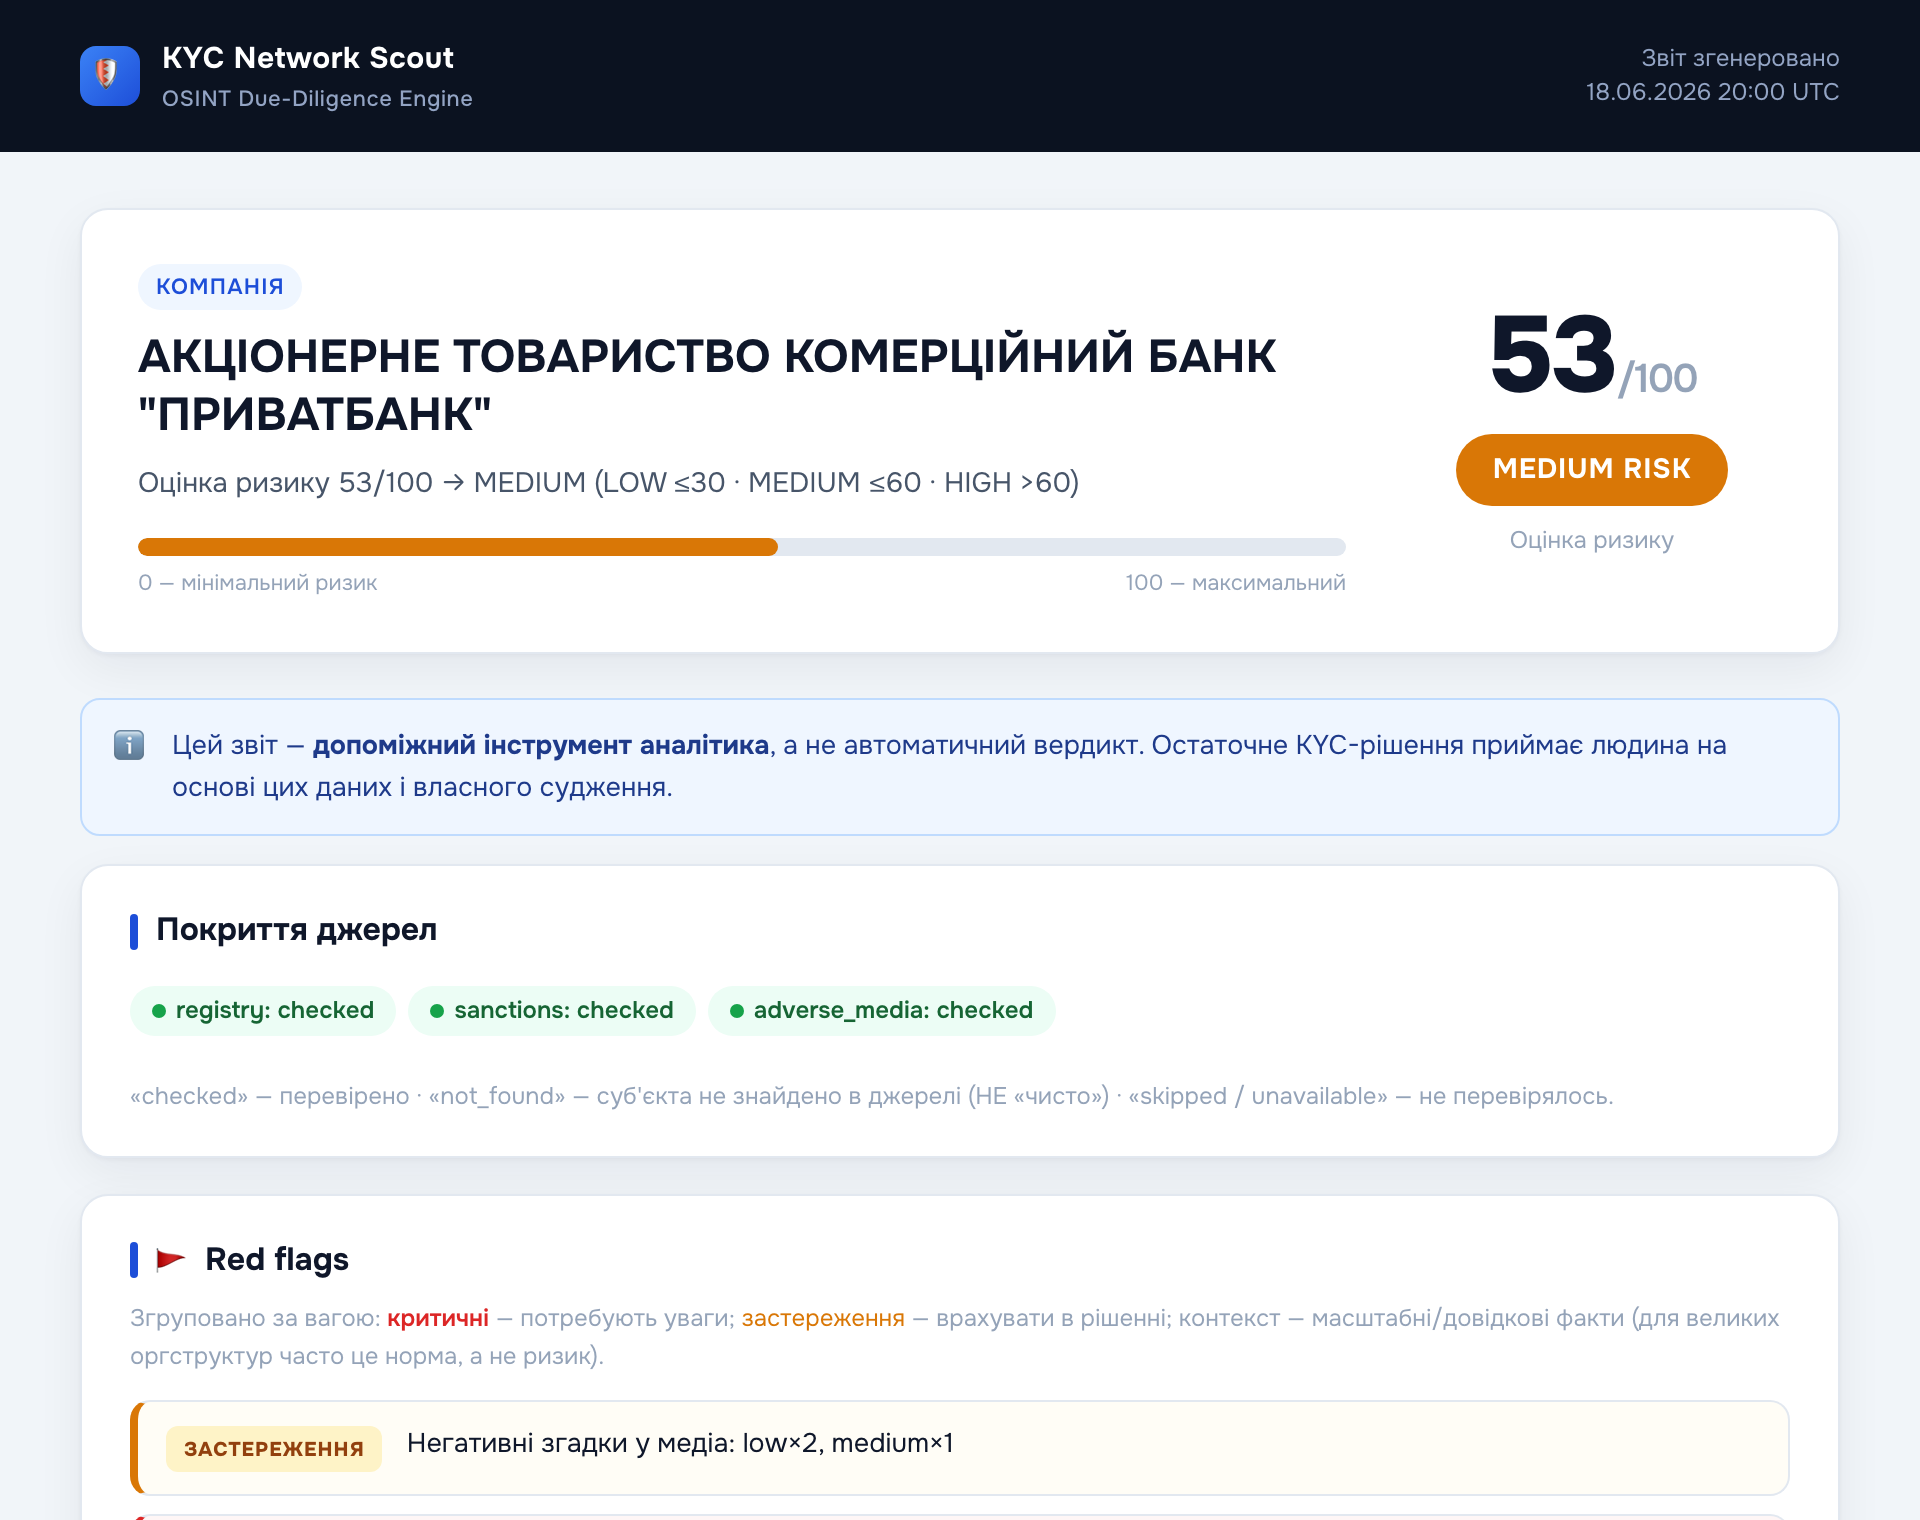
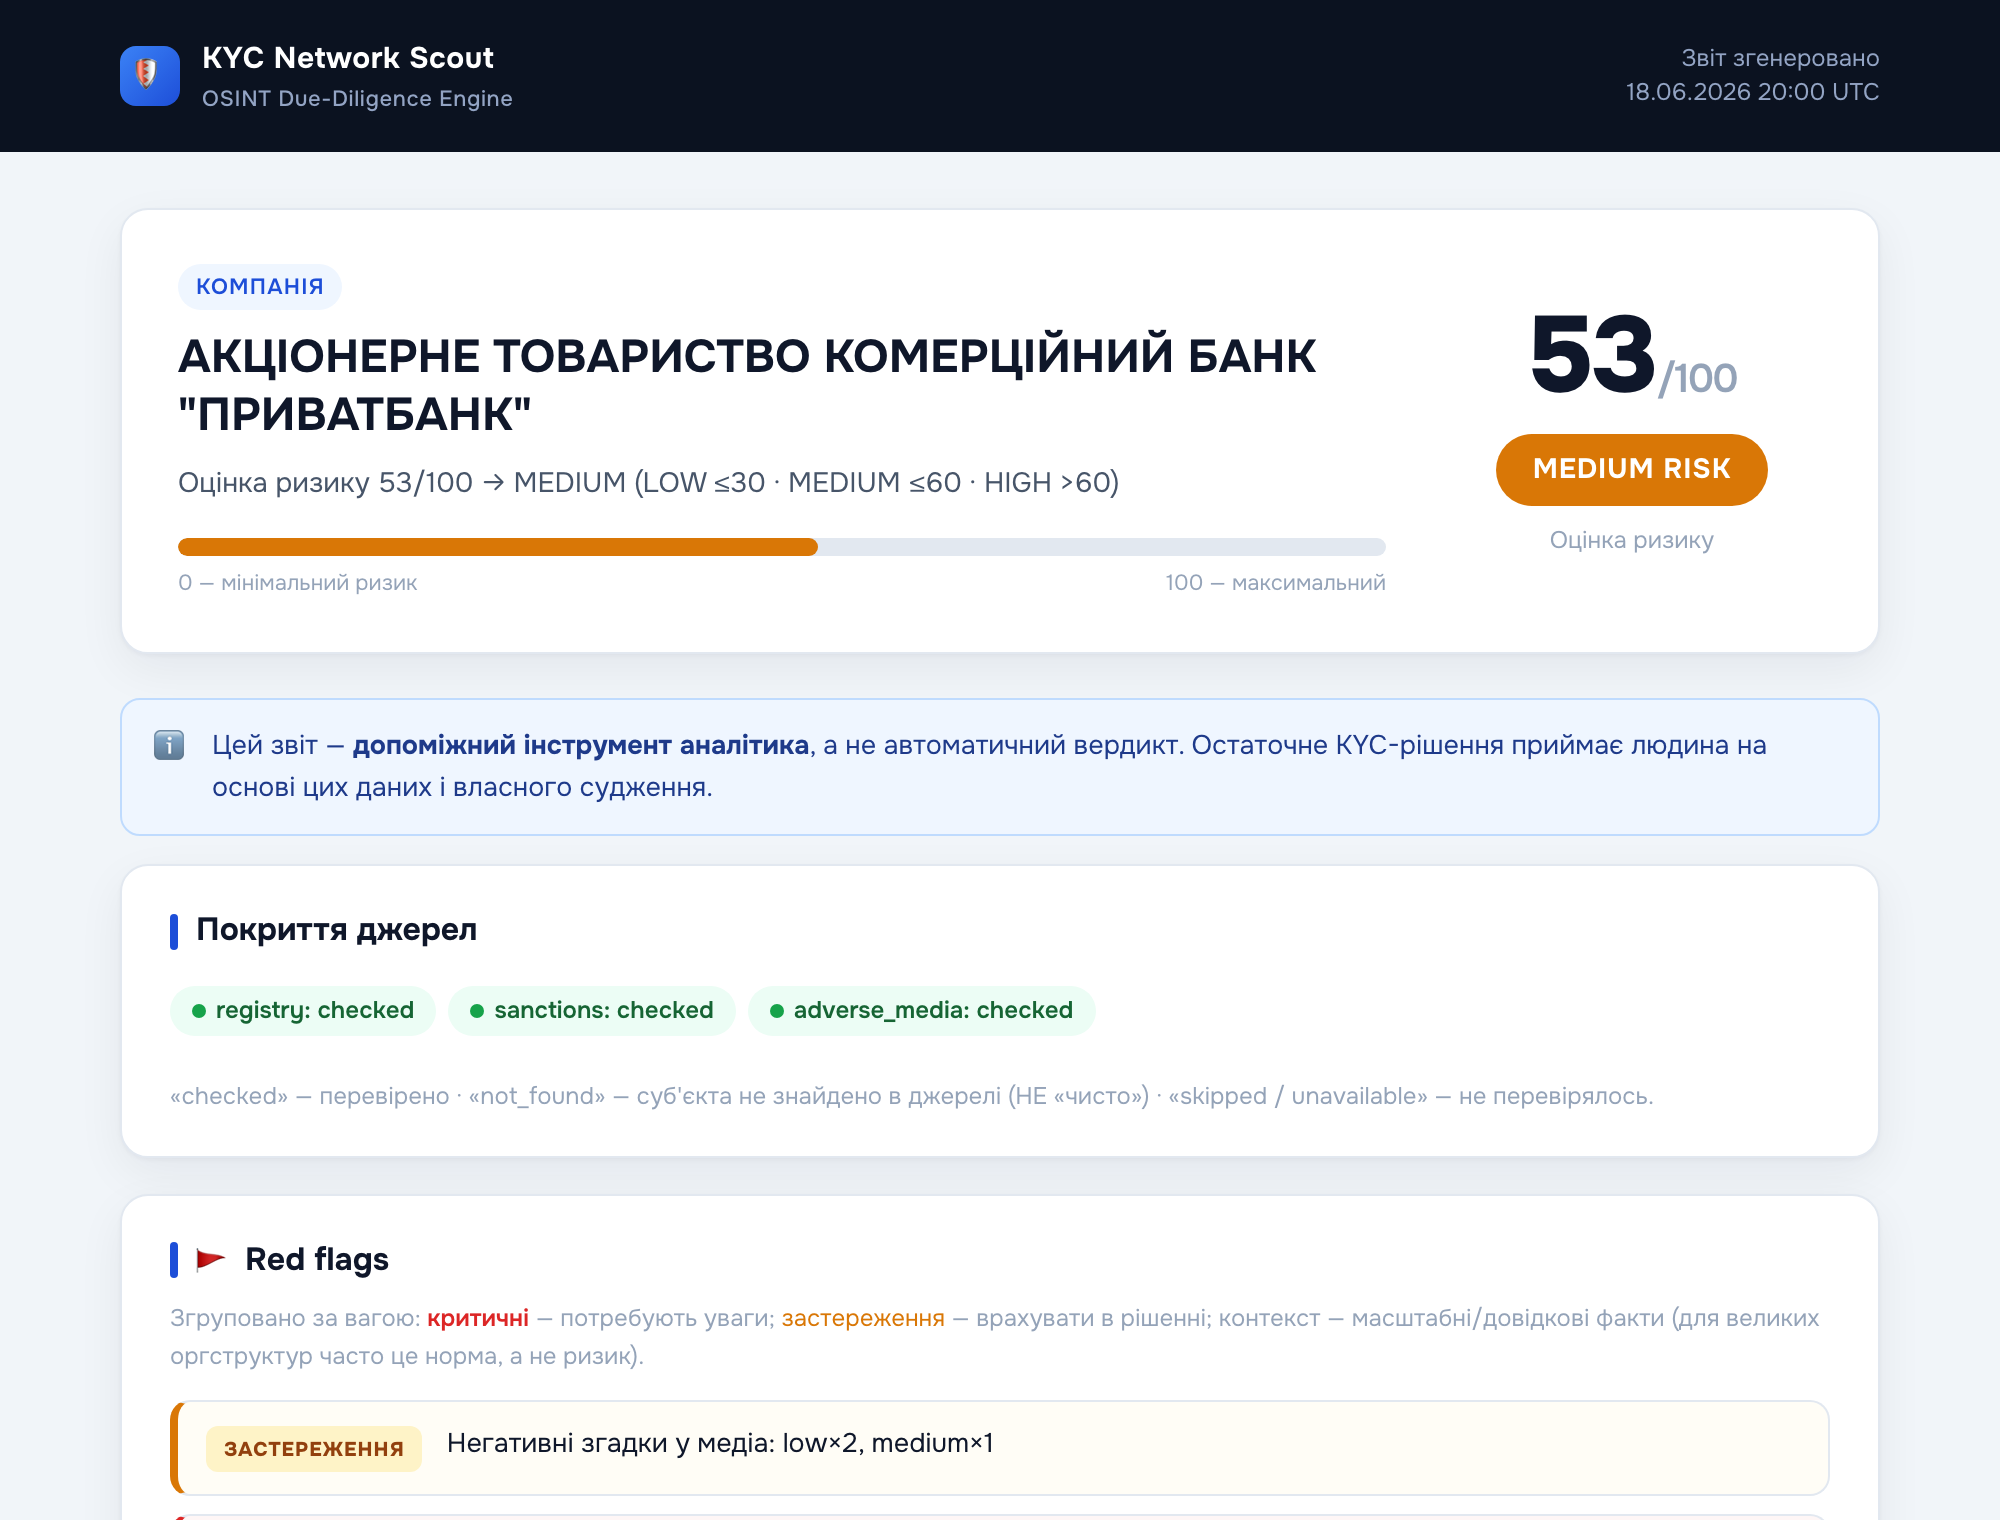
fix: критичні — identity-фільтр негативних медіа + SSRF-захист
#1 Вердикт: скоринг і HTML рахували негативні згадки лише за is_adverse,
ігноруючи is_about_target_person → стаття про ОДНОФАМІЛЬЦЯ знижувала бал і
потрапляла у звіт (критичний false-positive для поширених ПІБ і великих
компаній; CLI-гілка фільтрувала правильно, а звіт — ні).
- scoring.py: штрафуємо лише is_adverse AND is_about_target_person, і лише
  match_confidence high/medium (low — показ, але без штрафу)
- aggregator.py: той самий фільтр у звітному JSON і шаблоні; low-confidence
  рядки позначаються «не враховано в оцінці»; точніший фолбек-текст

#2 Безпека: scraper.scrape() пускав будь-який URL із пошукової видачі в
headless-браузер без SSRF-захисту → у Docker-мережі досяжні redis тощо,
метадані хмари (169.254.169.254), loopback, file://.
- scraper.py: _is_public_http_url() — лише http(s) на публічні IP; резолв
  хоста й перевірка всіх адрес (loopback/private/link-local/reserved/multicast)

ПриватБанк-звіт не змінився (усі його згадки — true-positive high-confidence).

diff --git a/examples/example_report.html b/examples/example_report.html
@@ -322,29 +322,34 @@
   
 
   
+  
   <div class="card">
   <h2>Негативні медіа-згадки <span class="cat" style="margin-left:auto">3</span></h2>
   
   <table><thead><tr><th style="width:90px">Severity</th><th>Категорія</th><th>Резюме</th><th>Джерело</th></tr></thead><tbody>
   
+    
     <tr><td><span class="badge sev-low">low</span></td>
         <td><span class="cat">litigation</span></td>
         <td>Дарницький районний суд м. Києва задовольнив позов споживача проти АТ КБ «ПриватБанк» щодо стягнення безпідставно списаних коштів у сумі 5000 грн та відновлення залишку на рахунку на суму 113 309 грн 64 коп. після несанкціонованих операцій. Суд зобов'язав банк також сплатити судовий збір у розмірі 2422 грн 40 коп. на користь держави.</td>
         <td><a href="https://reyestr.court.gov.ua/Review/133280226" target="_blank" rel="noopener">Єдиний державний реєстр судових рішень ↗</a></td></tr>
   
+    
     <tr><td><span class="badge sev-medium">medium</span></td>
         <td><span class="cat">other</span></td>
         <td>Стаття містить численні негативні відгуки клієнтів про ПриватБанк, зокрема скарги на безпідставне блокування рахунків, неналежне обслуговування та вимоги фінансового моніторингу без правового обґрунтування. Також зазначено, що банк у 2016 році перейшов у державну власність через невиконання програми докапіталізації та від'ємне значення капіталу.</td>
         <td><a href="https://finance.ua/ua/banks/privatbank" target="_blank" rel="noopener">ПриватБанк - сайт, телефон, реквізити, МФО, ЄДРПОУ, контактна інформація ↗</a></td></tr>
   
+    
     <tr><td><span class="badge sev-low">low</span></td>
         <td><span class="cat">litigation</span></td>
         <td>Господарський суд Київської області повернув позовну заяву без розгляду через процесуальні порушення з боку ПАТ КБ 'ПРИВАТБАНК', який діяв як представник ПАТ 'АКЦЕНТ-БАНК': позов підписаний неуповноваженою особою та не надано належних доказів сплати судового збору.</td>
         <td><a href="https://zakononline.ua/court-decisions/show/42012854" target="_blank" rel="noopener">Ухвала суду від 22.12.2014 по справі № 911/5439/14 Господарський суд Київської області 
              | ZAKONONLINE - Право знати! ↗</a></td></tr>
   </tbody></table>
-  <p class="tiny" style="margin-top:10px">Посилання ведуть на першоджерела (нова вкладка).
-     Повні копії статей на момент перевірки збережено в evidence-архіві.</p>
+  <p class="tiny" style="margin-top:10px">Показано лише згадки, які класифікатор зіставив саме з цим
+     суб'єктом (однофамільці відсіяні). Посилання ведуть на першоджерела (нова вкладка);
+     повні копії статей збережено в evidence-архіві.</p>
   
   </div>
 

diff --git a/workers/scraper.py b/workers/scraper.py
@@ -1,9 +1,12 @@
 from __future__ import annotations
 
 import asyncio
+import ipaddress
 import os
+import socket
 from datetime import datetime, timezone
 from typing import Any
+from urllib.parse import urlparse
 
 from dotenv import load_dotenv
 
@@ -15,6 +18,43 @@ _USER_AGENT: str = os.getenv(
 )
 PAGE_TIMEOUT_MS: int = 30_000
 MAX_TEXT_CHARS: int = 50_000
+
+_ALLOWED_SCHEMES = ("http", "https")
+
+
+def _is_public_http_url(url: str) -> bool:
+    """SSRF-захист. Дозволяємо лише http(s) на ПУБЛІЧНІ IP; блокуємо
+    loopback / приватні / link-local (напр. 169.254.169.254 — метадані хмари) /
+    reserved / multicast. URL для скрейпінгу беруться з пошукової видачі —
+    тобто частково контрольовані ззовні, тож хост треба зарезолвити й
+    перевірити ВСІ його адреси, перш ніж пускати в headless-браузер.
+
+    Залишковий ризик: DNS-rebinding (crawl4ai резолвить хост повторно) — для
+    внутрішнього інструмента прийнятно; за потреби закрити пін-ом IP."""
+    try:
+        p = urlparse(url)
+    except (ValueError, AttributeError):
+        return False
+    if p.scheme not in _ALLOWED_SCHEMES:
+        return False
+    host = p.hostname
+    if not host:
+        return False
+    try:
+        infos = socket.getaddrinfo(host, p.port or 80, proto=socket.IPPROTO_TCP)
+    except (socket.gaierror, UnicodeError, ValueError, OSError):
+        return False
+    if not infos:
+        return False
+    for info in infos:
+        try:
+            addr = ipaddress.ip_address(info[4][0].split("%")[0])
+        except ValueError:
+            return False
+        if (addr.is_private or addr.is_loopback or addr.is_link_local
+                or addr.is_reserved or addr.is_multicast or addr.is_unspecified):
+            return False
+    return True
 
 
 def _extract_markdown(result: Any) -> str:
@@ -65,6 +105,11 @@ async def scrape(url: str) -> dict[str, Any]:
         "scraped_at": datetime.now(timezone.utc).isoformat(),
         "error": None,
     }
+
+    # SSRF-захист: не пускаємо в браузер непублічні / нестандартні URL.
+    if not _is_public_http_url(url):
+        base["error"] = "blocked: непублічний або недозволений URL (SSRF-захист)"
+        return base
 
     try:
         from crawl4ai import AsyncWebCrawler

diff --git a/workers/aggregator.py b/workers/aggregator.py
@@ -474,23 +474,26 @@ _HTML_TEMPLATE = """<!DOCTYPE html>
   </div>
   {% endif %}
 
-  {% set adverse_items = adverse | selectattr("is_adverse") | list %}
+  {# лише згадки про самого субʼєкта (не однофамільця) #}
+  {% set adverse_items = adverse | selectattr("is_adverse") | selectattr("is_about_target_person") | list %}
   <div class="card">
   <h2>Негативні медіа-згадки {% if adverse_items %}<span class="cat" style="margin-left:auto">{{ adverse_items|length }}</span>{% endif %}</h2>
   {% if adverse_items %}
   <table><thead><tr><th style="width:90px">Severity</th><th>Категорія</th><th>Резюме</th><th>Джерело</th></tr></thead><tbody>
   {% for m in adverse_items %}
+    {% set low_conf = (m.match_confidence or "")|lower == "low" %}
     <tr><td><span class="badge sev-{{ m.severity or 'low' }}">{{ m.severity or "low" }}</span></td>
         <td><span class="cat">{{ m.category or "—" }}</span></td>
-        <td>{{ m.summary or "" }}</td>
+        <td>{{ m.summary or "" }}{% if low_conf %}<br><span class="tiny" style="color:var(--medium)">⚠ низька впевненість атрибуції — показано, але не враховано в оцінці ризику</span>{% endif %}</td>
         <td>{% if m.url %}<a href="{{ m.url|e }}" target="_blank" rel="noopener">{{ m.title or "першоджерело" }} ↗</a>{% else %}—{% endif %}</td></tr>
   {% endfor %}</tbody></table>
-  <p class="tiny" style="margin-top:10px">Посилання ведуть на першоджерела (нова вкладка).
-     Повні копії статей на момент перевірки збережено в evidence-архіві.</p>
+  <p class="tiny" style="margin-top:10px">Показано лише згадки, які класифікатор зіставив саме з цим
+     суб'єктом (однофамільці відсіяні). Посилання ведуть на першоджерела (нова вкладка);
+     повні копії статей збережено в evidence-архіві.</p>
   {% elif coverage.adverse_media == "checked" %}
   <div class="callout callout-ok" style="margin:0"><span class="ic">✅</span>
-    <span>Медіа-пошук виконано — негативних згадок не виявлено
-    {% if adverse %}(перевірено {{ adverse|length }} джерел(а), жодне не визнано негативним){% endif %}.</span></div>
+    <span>Медіа-пошук виконано — негативних згадок саме про цього суб'єкта не виявлено
+    {% if adverse %}(перевірено {{ adverse|length }} джерел(а); згадки про однофамільців, за наявності, відсіяно){% endif %}.</span></div>
   {% else %}
   <p class="muted">Медіа-пошук не виконувався.</p>
   {% endif %}
@@ -594,7 +597,9 @@ def aggregate(slug: str, subject_label: str | None = None) -> dict[str, Any]:
         "data_as_of": data_as_of,
         "registry": registry, "sanctions": sanctions,
         "resolved_entities": resolved,
-        "adverse_media_count": len([m for m in adverse if m.get("is_adverse")]),
+        "adverse_media_count": len([
+            m for m in adverse
+            if m.get("is_adverse") and m.get("is_about_target_person")]),
         "adverse_media": [
             {
                 "url": m.get("url"),
@@ -605,7 +610,9 @@ def aggregate(slug: str, subject_label: str | None = None) -> dict[str, Any]:
                 "match_confidence": m.get("match_confidence"),
                 "source": "serper+classifier",
             }
-            for m in adverse if m.get("is_adverse")
+            # лише згадки про самого субʼєкта (не однофамільця)
+            for m in adverse
+            if m.get("is_adverse") and m.get("is_about_target_person")
         ],
     }
     (report_dir / "kyc_report.json").write_text(

diff --git a/workers/scoring.py b/workers/scoring.py
@@ -338,13 +338,19 @@ def compute_trust_score(
                -60, "Opendatabot (санкції)",
                f"Санкційний збіг: {n} запис(ів). Списки: {lists_str}.")
 
-    # 2. Негативні медіа.
+    # 2. Негативні медіа. Рахуємо ЛИШЕ згадки про самого субʼєкта (не
+    #    однофамільця: is_about_target_person) і лише з достатньою впевненістю
+    #    атрибуції (match_confidence high/medium). Інакше негативна стаття про
+    #    тезку безпідставно знижувала б оцінку — критичний false-positive.
     media = adverse_media or []
-    adverse_items = [m for m in media if m.get("is_adverse")]
-    if adverse_items:
+    relevant = [m for m in media
+                if m.get("is_adverse") and m.get("is_about_target_person")]
+    scored = [m for m in relevant
+              if (m.get("match_confidence") or "").lower() in ("high", "medium")]
+    if scored:
         by_sev: dict[str, int] = {}
         total_pen = 0
-        for m in adverse_items:
+        for m in scored:
             sev = (m.get("severity") or "low").lower()
             pen = _SEVERITY_PENALTY.get(sev, 4)
             total_pen += pen